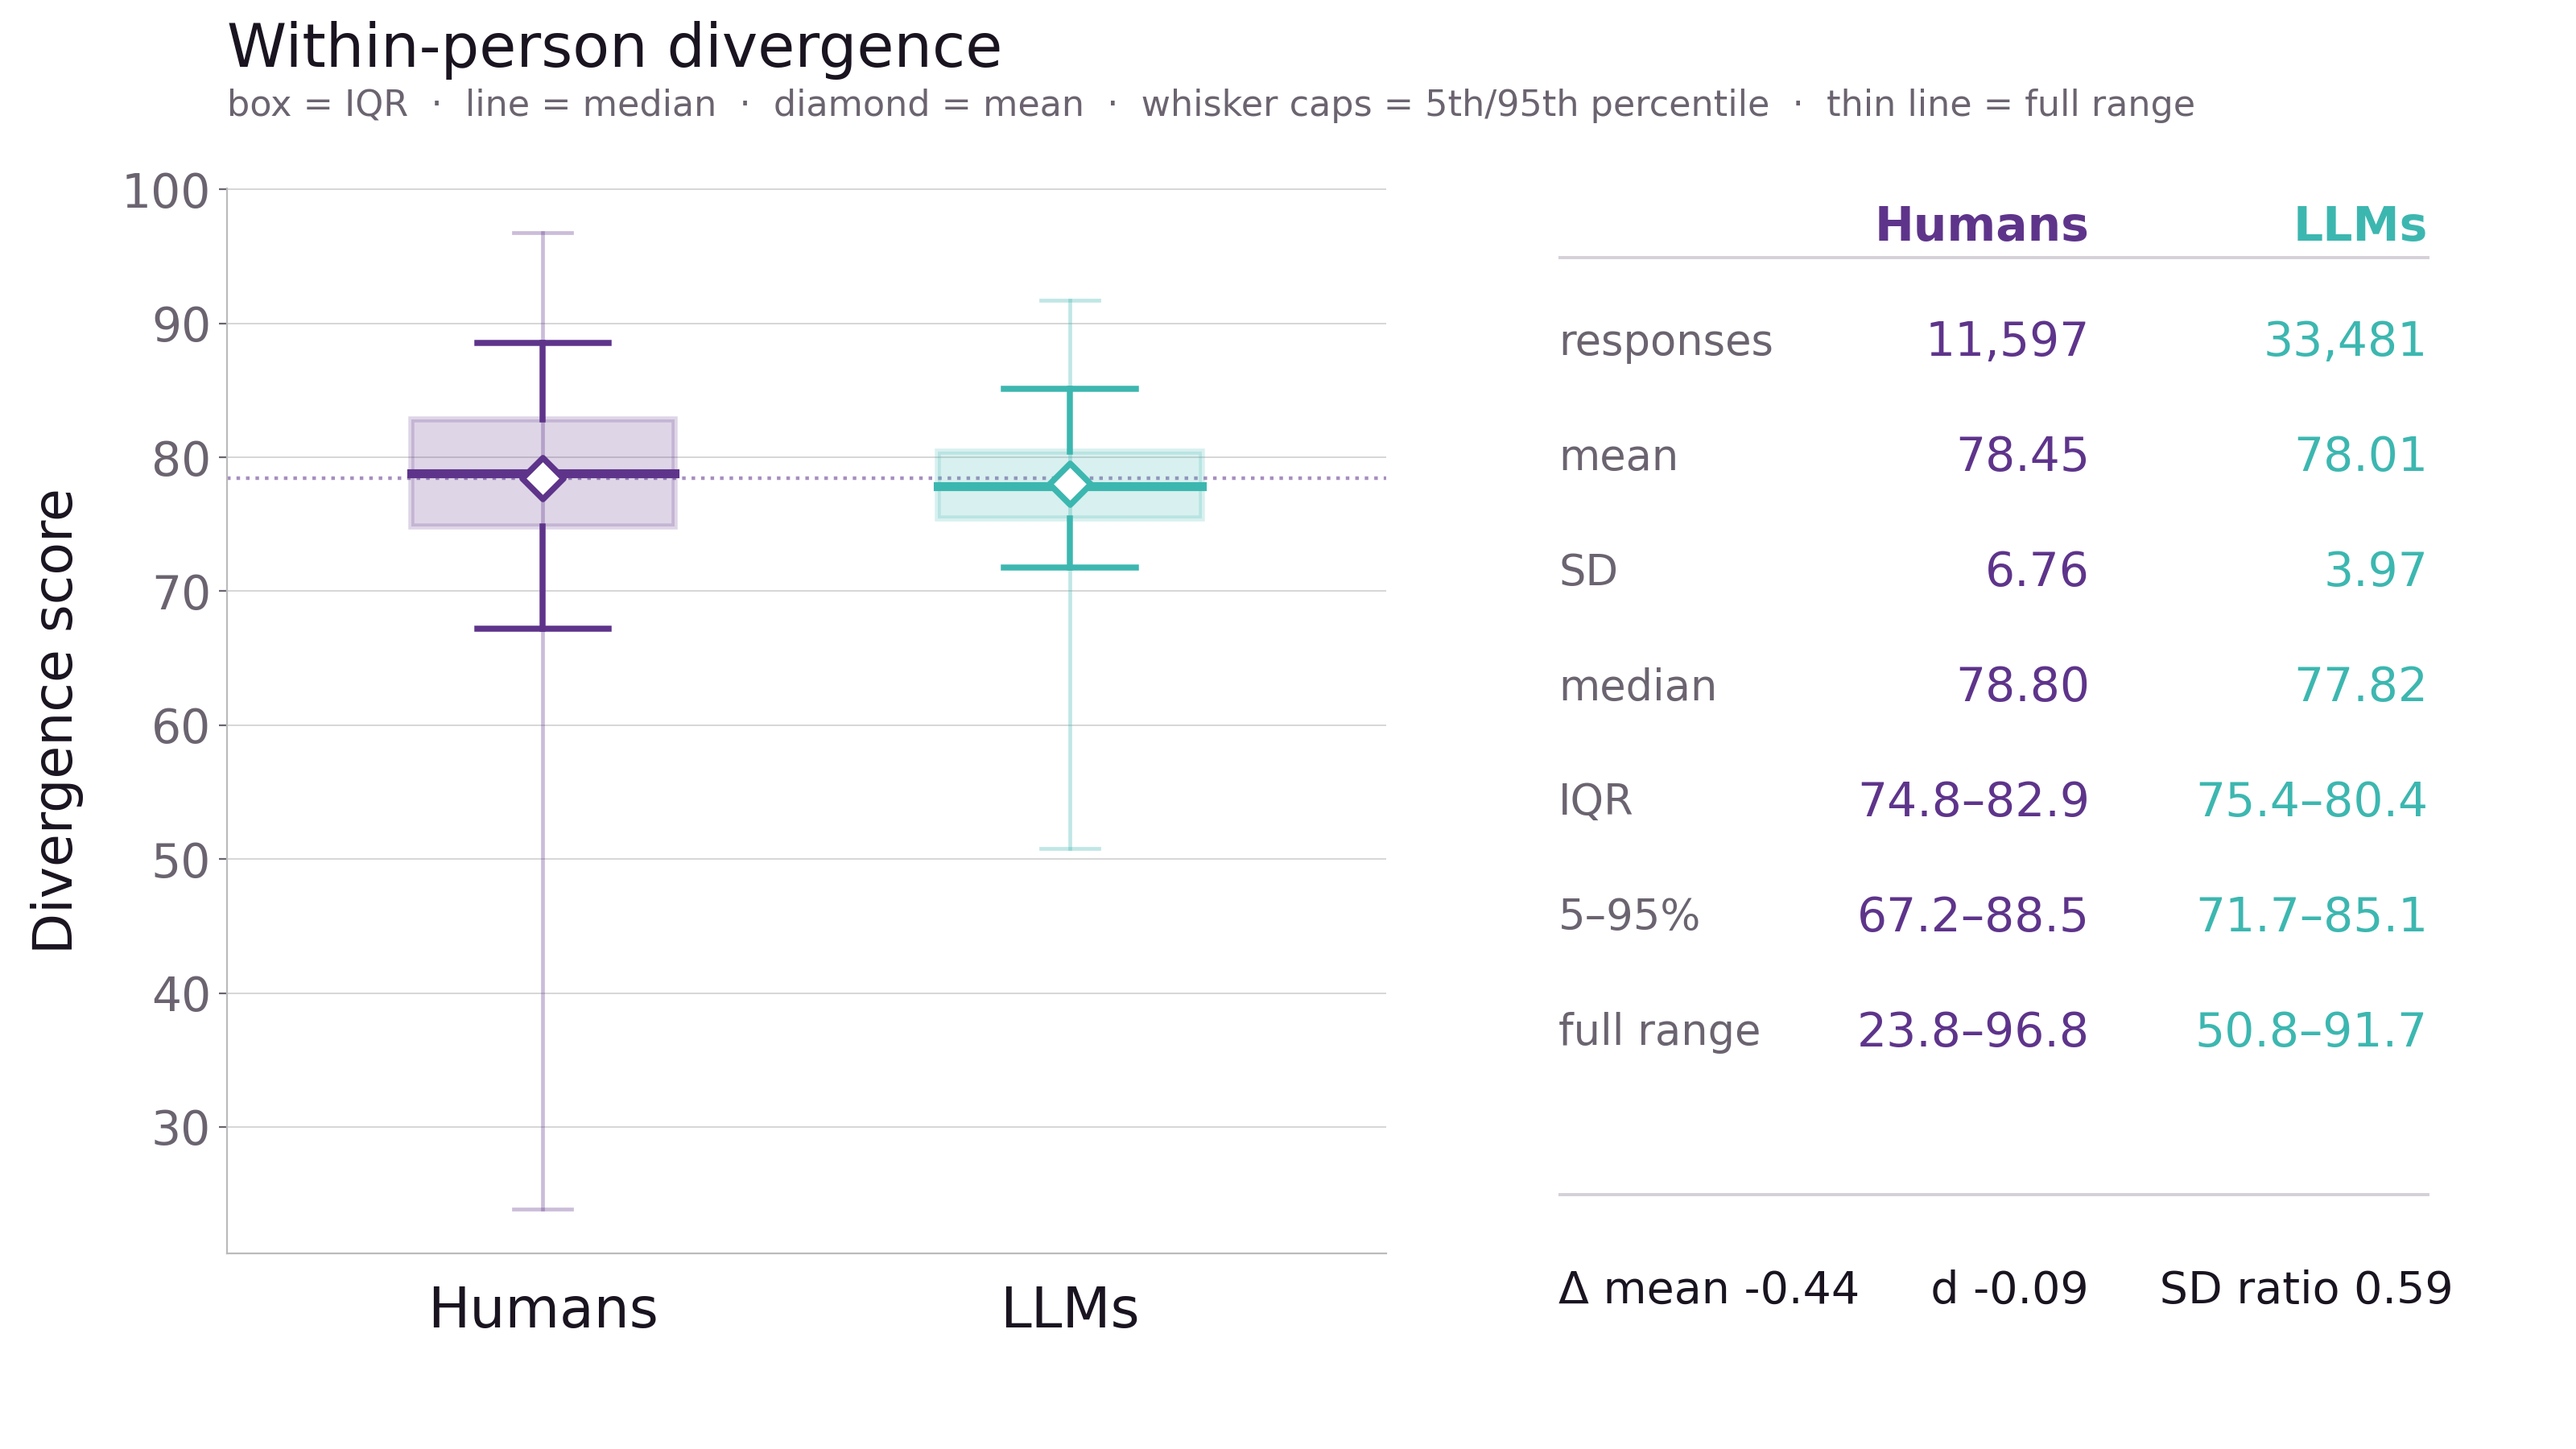
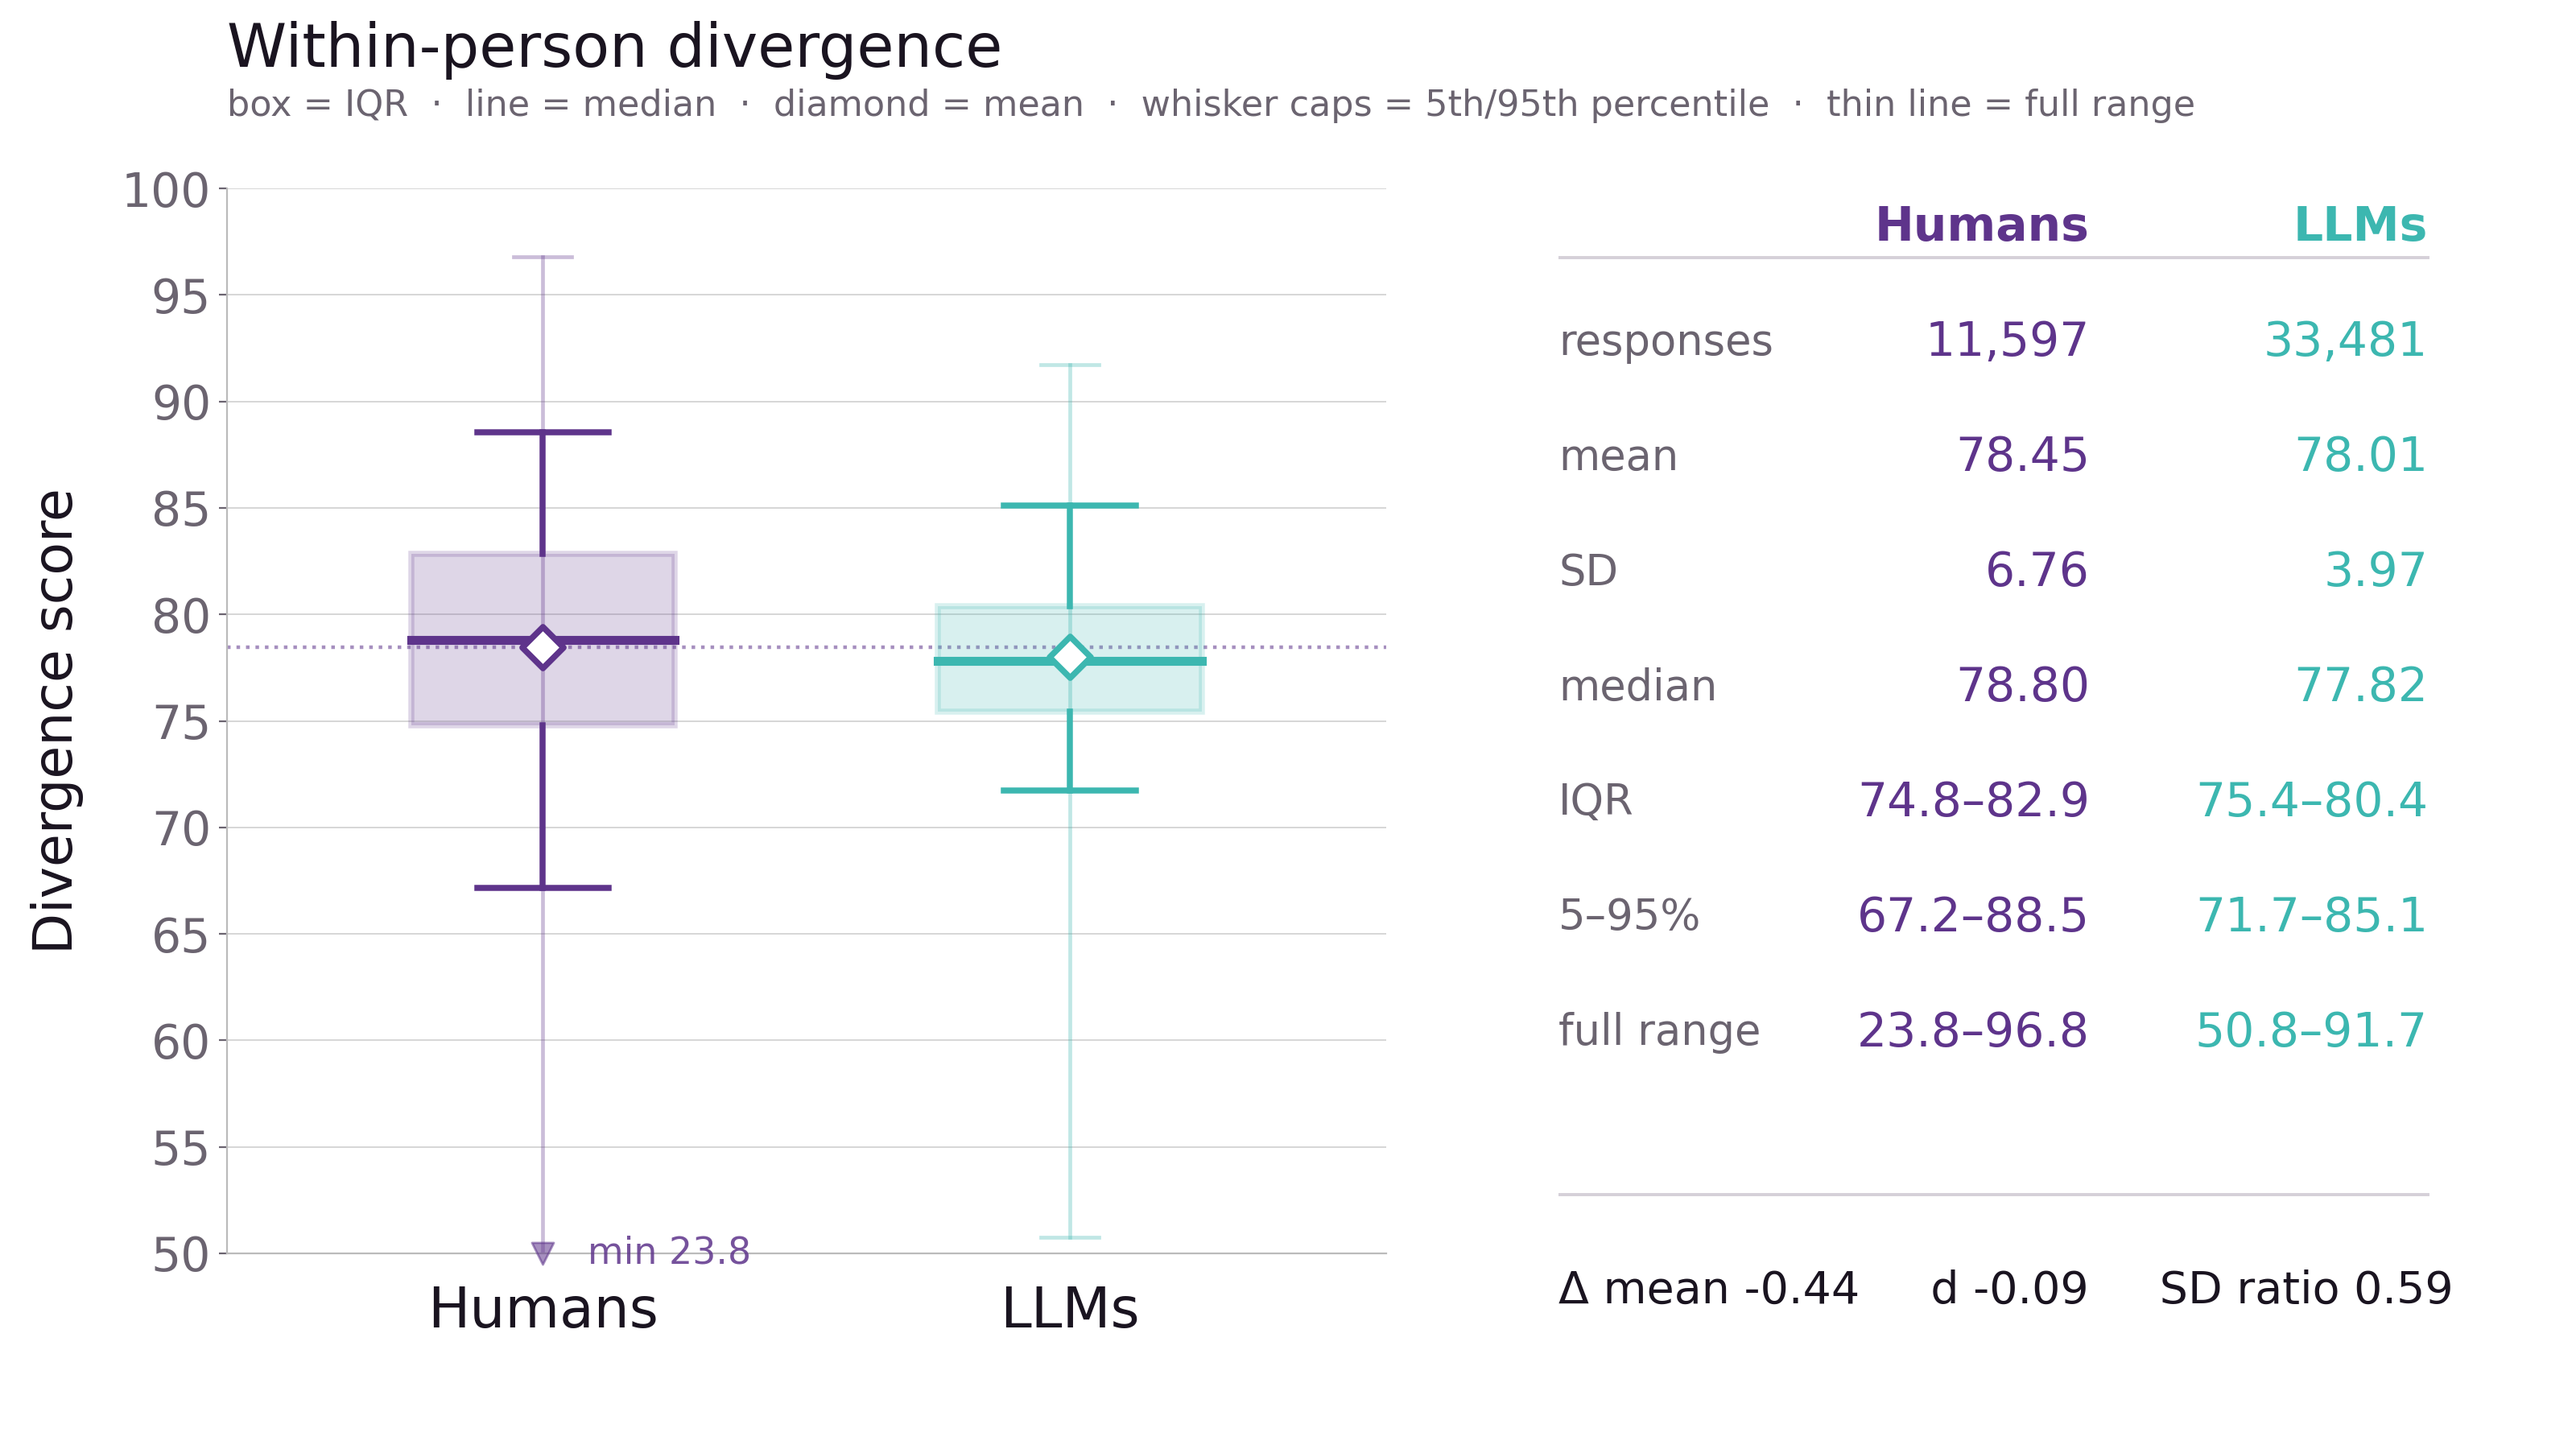
One shared 50 to 100 y range on both box plots
Set by Dawei so the two measures are read on the same scale. The human DAT range runs to 23.8,
below the window, so an out-of-range series now gets a caret at the axis and its true bound
labelled (min 23.8) instead of appearing to stop at 50. FIG_BOX_YLIM overrides the window.

diff --git a/analysis/fig6_cross_section_boxes.py b/analysis/fig6_cross_section_boxes.py
@@ -17,6 +17,11 @@ ROOT = sys.argv[1] if len(sys.argv) > 1 else "/home/user/verify"
 DATA = os.environ.get("FIG_DATA", f"{ROOT}/analysis/data")
 OUT  = os.environ.get("FIG_OUT",  f"{ROOT}/results")
 SHOW_TITLE = os.environ.get("FIG_TITLE", "1") == "1"
+# One shared y range on both panels so the two measures are read on the same scale
+# (set by Dawei 2026-07-31). The human DAT tail runs below 50, so any series whose range
+# falls outside the window gets its true bound labelled at the axis rather than hidden.
+BOX_YLIM = tuple(float(x) for x in os.environ.get("FIG_BOX_YLIM", "50,100").split(","))
+BOX_YSTEP = float(os.environ.get("FIG_BOX_YSTEP", "5"))
 
 HUMAN, MACHINE = "#5E348B", "#3CB7B0"        # human purple / machine teal
 INK, MUTED, GRID = "#1a1420", "#6b6470", "#cccccc"
@@ -41,9 +46,18 @@ def stats(v):
                 p5=p5, p95=p95, lo=v.min(), hi=v.max())
 
 def box(ax, x, s, color, W=0.40):
-    ax.plot([x, x], [s['lo'], s['hi']], color=color, lw=1.7, alpha=0.32, zorder=2)
-    for y in (s['lo'], s['hi']):
-        ax.plot([x - 0.055, x + 0.055], [y, y], color=color, lw=1.7, alpha=0.32, zorder=2)
+    ylo, yhi = ax.get_ylim()
+    lo, hi = max(s['lo'], ylo), min(s['hi'], yhi)
+    ax.plot([x, x], [lo, hi], color=color, lw=1.7, alpha=0.32, zorder=2)
+    for y, true_v, out in ((lo, s['lo'], s['lo'] < ylo), (hi, s['hi'], s['hi'] > yhi)):
+        if out:      # range continues past the axis: caret plus the true bound
+            ax.scatter([x], [y], marker='v' if true_v == s['lo'] else '^', s=95, color=color,
+                       alpha=0.55, zorder=3, clip_on=False)
+            ax.annotate(f"min {true_v:.1f}" if true_v == s['lo'] else f"max {true_v:.1f}",
+                        xy=(x + 0.085, y), ha='left', va='center', fontsize=16.5,
+                        color=color, alpha=0.85, zorder=7)
+        else:
+            ax.plot([x - 0.055, x + 0.055], [y, y], color=color, lw=1.7, alpha=0.32, zorder=2)
     ax.plot([x, x], [s['p5'], s['q1']], color=color, lw=2.7, zorder=3)
     ax.plot([x, x], [s['q3'], s['p95']], color=color, lw=2.7, zorder=3)
     for y in (s['p5'], s['p95']):
@@ -84,8 +98,8 @@ def render(hv, mv, ylab, title, sub, fname):
     d = (ms['mean'] - hs['mean']) / np.sqrt(((hs['n']-1)*hs['sd']**2 + (ms['n']-1)*ms['sd']**2) / (hs['n']+ms['n']-2))
     fig = plt.figure(figsize=(16, 9))
     ax = fig.add_axes([0.088, 0.135, 0.45, 0.735])
-    lo = min(hs['lo'], ms['lo']); hi = max(hs['hi'], ms['hi']); pad = (hi - lo) * 0.045
-    ax.set_ylim(lo - pad, hi + pad); ax.set_xlim(0.40, 2.60)
+    ax.set_ylim(*BOX_YLIM); ax.set_xlim(0.40, 2.60)
+    ax.set_yticks(np.arange(BOX_YLIM[0], BOX_YLIM[1] + 0.01, BOX_YSTEP))
     ax.grid(axis='y', color=GRID, lw=0.7, alpha=0.8, zorder=0); ax.set_axisbelow(True)
     ax.axhline(hs['mean'], color=HUMAN, lw=1.6, ls=':', alpha=0.55, zorder=1)
     box(ax, 1.0, hs, HUMAN, W=0.50)
